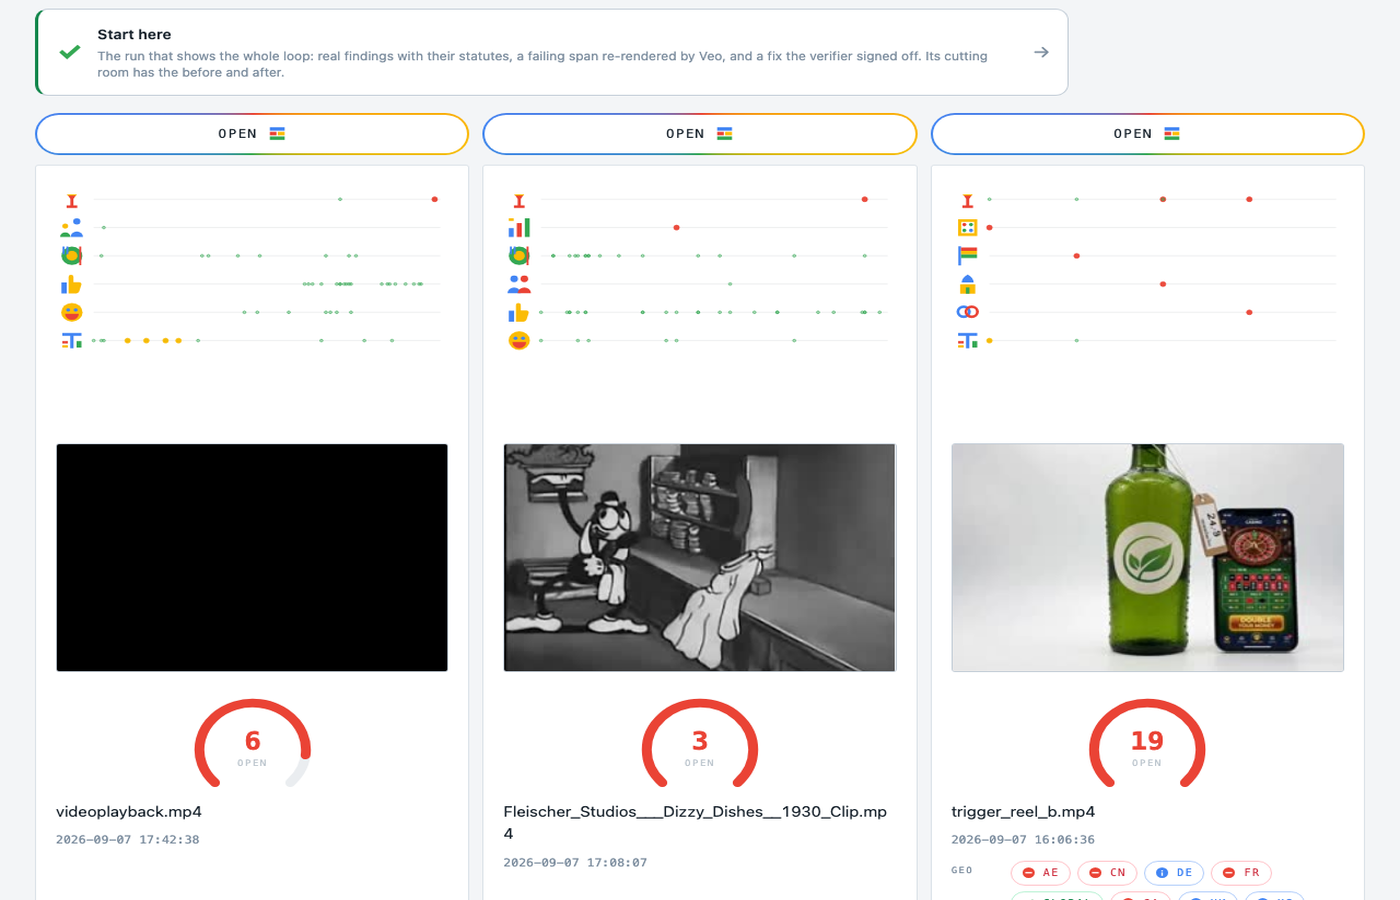
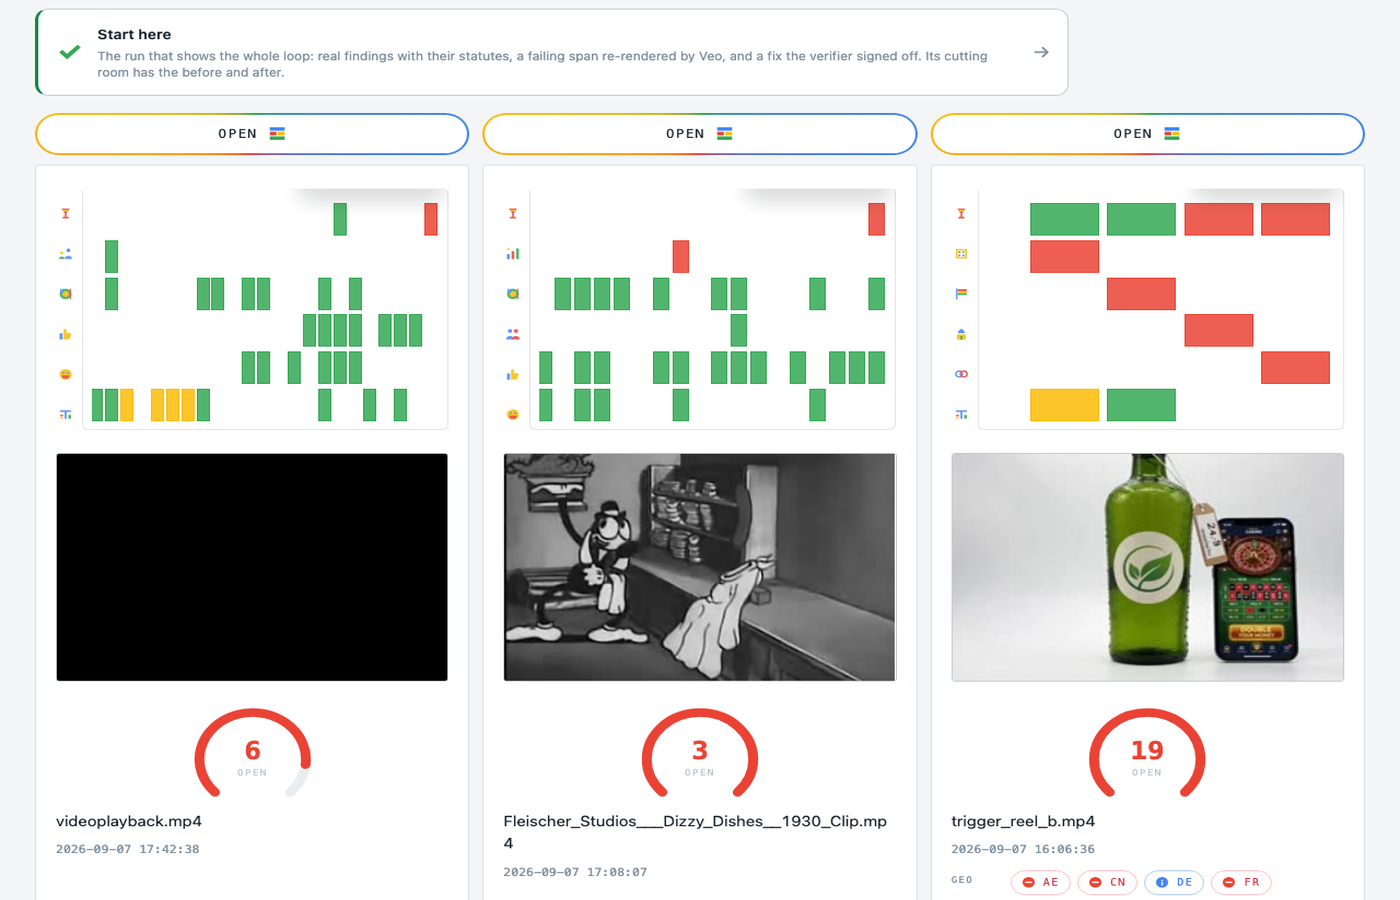
docs: the README and the gifs show the interface as it is now
Sixteen stills and five gifs, re-shot from the deployed console, plus the
two screens and the tour that did not exist when the last set was taken:
My edits, Generated content, and the fourteen-slide deck with its walk.

The prose caught up with them. No YouTube field anywhere -- it is gone
from the product, so it is gone from the sentences that promised it. The
archive's cards carry both charts with a switch. Agent mode has eleven
tools, not ten. The visitor door asks for nothing. The generative fixes
take an instruction of your own. The badge counts the 622 tests that
actually run.

And two scripts stop rotting: the gif runner was pinned to two run ids
that have since been deleted, so every gif in the set 404'd at the first
fetch rather than being merely stale, and its agent-mode injection was
anchored on markup that changed when the starters became an accordion.
Both now point at app.SHOWCASE_RUN, which is the same run the stills use.

diff --git a/scripts/make_tutorial_gifs.py b/scripts/make_tutorial_gifs.py
@@ -132,7 +132,12 @@ def stage(html: str, base: str, *, open_details=False, detail_view=False,
             parts.append('<div class="ag-msg ag-agent">'
                          '<svg class="ic"><use href="#i-adjudicator"/></svg>'
                          f'<div class="ag-body">{said}</div></div>')
-        head, anchor, tail = html.partition('<div class="agent-suggest')
+        # The starters are a folded <details> now and were a <div> before;
+        # the injection lands just before whichever one this build has.
+        marker = ('<details class="agent-suggest'
+                  if '<details class="agent-suggest' in html
+                  else '<div class="agent-suggest')
+        head, anchor, tail = html.partition(marker)
         head = head.rstrip()
         assert head.endswith("</div>"), "the agent log did not close where expected"
         html = (head[:-len("</div>")] + "".join(parts) + "</div>"
@@ -258,9 +263,14 @@ def assemble(frames: list[Path], dest: Path, delay: float = 1.9) -> Path:
 def main() -> int:
     ap = argparse.ArgumentParser()
     ap.add_argument("--base", default="https://customs-app-akap4ao72a-ew.a.run.app")
-    ap.add_argument("--run", default="run_804f7b687c72")
+    # The showcase run, which is the one app.SHOWCASE_RUN pins and the one
+    # the README's stills use. The two ids that used to be here were
+    # whatever was interesting the week they were written, and both have
+    # since been deleted -- so every gif in the set 404'd at the first
+    # fetch instead of being merely stale.
+    ap.add_argument("--run", default="run_959b162a0f25")
     ap.add_argument("--market", default="FR")
-    ap.add_argument("--fixed", default="run_c61fa291681f",
+    ap.add_argument("--fixed", default="run_959b162a0f25",
                     help="a run that already has a localized master")
     ap.add_argument("--cookie", default="customs-role=judge")
     ap.add_argument("--only", help="one gif by name")

diff --git a/docs/devpost.md b/docs/devpost.md
@@ -20,11 +20,11 @@ The Grafana angle came from noticing that a clearance run is basically telemetry
 
 ### What it does
 
-You upload the spot, or paste a YouTube link, and tick the markets. Then you watch it go through.
+You upload the spot and tick the markets. Then you watch it go through.
 
 The crew watches the film once and writes down what's in it, in plain terms: a woman raises a glass of red wine, a man in shorts, a flag on the wall, text that says "clinically proven". No opinions at this stage. Then one adjudicator per market picks up that list and checks it against that market's rules. I've built 21 rule packs covering 98 jurisdictions, from a global baseline down through the EU, sixteen countries and eighty individual broadcasters. Every rule points at a real law or broadcaster code, and every finding comes back with a live link to it, found through Google Search at the moment of judging. Market tiles go from pending to cleared, at risk or blocked as the verdicts come in.
 
-Behind that, the crew builds its own Grafana dashboards for the run: risk per market along the timecode, every finding as an annotation, and alert rules. When Grafana fires an alert on a blocking finding, it calls back into the app and a remediator has a go at the shot. There are five ways to fix a span, from a cheap one-frame patch up to Gemini Omni rewriting the whole shot as video, or Veo 3.1 generating new motion between two edited frames. Then a verifier runs the same analysis again on the new footage. If the problem is gone and nothing new broke, the metric drops and Grafana closes its own alert.
+Behind that, the crew builds its own Grafana dashboards for the run: risk per market along the timecode, every finding as an annotation, and alert rules. When Grafana fires an alert on a blocking finding, it calls back into the app and a remediator has a go at the shot. There are five ways to fix a span, from a cheap one-frame patch up to Gemini Omni rewriting the whole shot as video, or Veo 3.1 generating new motion between two edited frames -- and for those two you can type what you want to happen, which is added to the instruction the model gets. Then a verifier runs the same analysis again on the new footage. If the problem is gone and nothing new broke, the metric drops and Grafana closes its own alert.
 
 What you get out is what a clearance desk would actually hand over: a decision per market with the evidence, a localised master, a clearance certificate as a PDF with every finding and statute on it, and marker files (CSV and CMX3600 EDL) so an editor can drop the findings straight onto their timeline in Resolve or Premiere, colour-coded, with the reason in the note.
 

diff --git a/README.md b/README.md
@@ -60,6 +60,7 @@ Every frame below is the running console, shot from the deployed instance rather
 | ![Frames and findings](docs/media/tut-2-frames.gif) | **Every frame, as the analyst saw it.** One neutral timecoded sentence each, verdicts forbidden. A finding is that observation joined to one market's rule and a live citation. |
 | ![The fix picker](docs/media/tut-3-fix.gif) | **Five ways to fix it, priced in euro before you press.** What should change, and how much of the footage to disturb. The two generative methods will also take your own words, added to the instruction the model is given. The localized master lands beside the original in the cutting room. |
 | ![A click in Grafana](docs/media/tut-4-grafana.gif) | **A click on a Grafana panel starts a generative fix.** The grid is the crew's own dashboard; clicking a square resolves the scene under it and starts a priced edit on that span. |
+| ![Agent mode answering](docs/media/tut-5-agent.gif) | **Or ask for the whole console in sentences.** Every screen above is one of this agent's eleven tools, so what it tells you is what you would have found by clicking -- and it opens that thing beside its answer. The turn in this recording is a real one, posted to the deployed service. |
 
 ---
 
